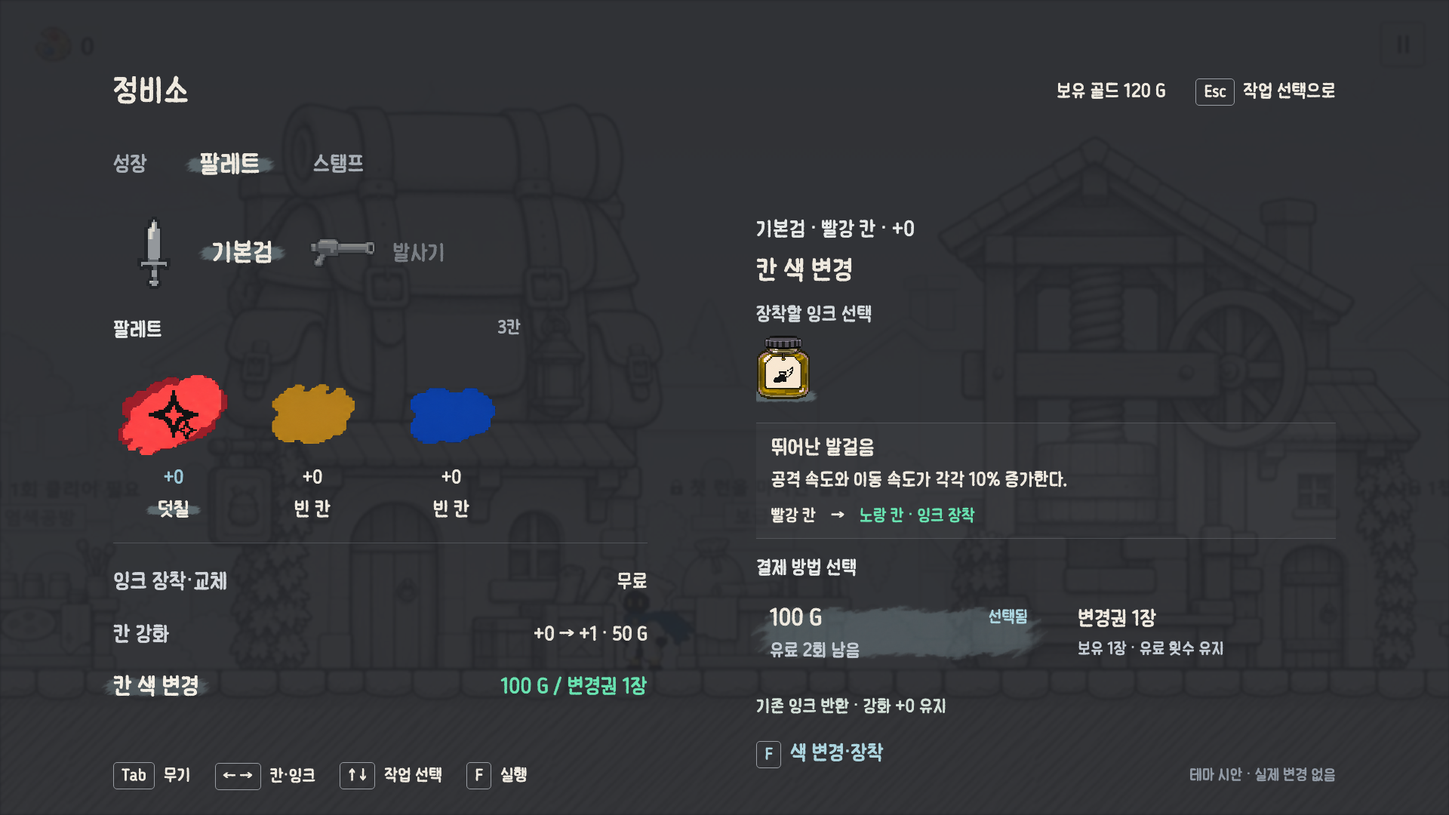
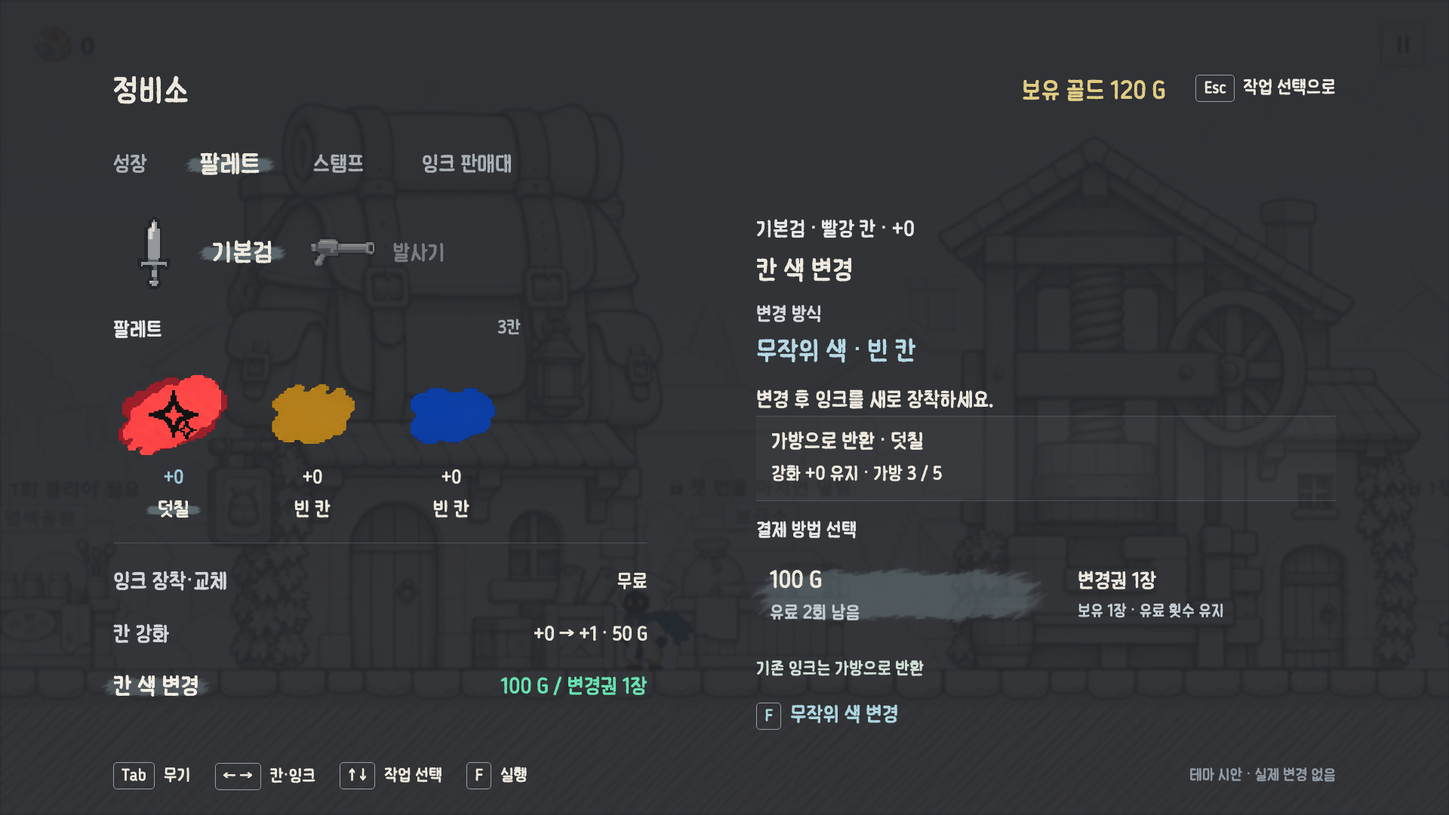
Revise growth and random recolor flow and add equipment slot navigation

diff --git a/ui/work/theme/ink-pixel-v1/maintenance-palette-v1/index.html b/ui/work/theme/ink-pixel-v1/maintenance-palette-v1/index.html
@@ -133,7 +133,9 @@ body[data-mode="color"] .paymentOption{transform:scale(1);transform-origin:cente
 body[data-mode="color"] .paymentOption.isSelected{transform:scale(1.12)}
 body[data-mode="color"] .payment{gap:48px;padding:8px 18px}
 @media(prefers-reduced-motion:reduce){.slot .layers,nav>a,nav>span,.weapons button,.taskName,.taskMeta,.candidateRow button,.recolorInks button,body[data-mode="color"] .paymentOption{transition:none}}
-</style><div class="screen"><div class="world"></div><main><header><h1>정비소</h1><aside><span>보유 골드 120 G</span><span><kbd>Esc</kbd><span id="escLabel">닫기</span></span></aside></header><nav><a href="../maintenance-set-v1/index.html?view=growth">성장</a><span class="active mark">팔레트</span><a href="../maintenance-stamp-v1/index.html">스탬프</a></nav><div class="cols"><section><div class="weapons" id="weapons"></div><div class="paletteHead"><span class="label">팔레트</span><span class="label" id="slotCount">3칸</span></div><div class="slots" id="slots"></div><div class="services"><button onclick="showService(0)"><span class="serviceTitle">칸 강화</span><span class="serviceValue"><span>+0</span><span class="serviceArrow">→</span><span class="serviceGain">+1</span></span><span class="serviceCost"><span class="costLabel">비용</span><span>50 G</span></span></button><button onclick="showService(1)"><span class="serviceTitle">칸 색 변경</span><span class="serviceValue changeValue">칸 색 변경</span><span class="serviceCost"><span class="costLabel">비용</span><span>변경권 1장</span></span></button></div></section><section id="detail"></section></div></main><footer class="foot"><span><kbd>Tab</kbd>무기</span><span><kbd>← →</kbd>칸·잉크</span><span><kbd>↑ ↓</kbd>작업 선택</span><span><kbd>F</kbd><span id="fLabel">잉크 고르기</span></span><span class="note">테마 시안 · 실제 변경 없음</span></footer></div><script>
+header aside>span:first-child{color:#e0cc83;font-size:33px}header aside>span:last-child{color:#eee9df;font-size:25px}
+body[data-mode="color"] .taskDecision button:disabled{color:#e3b59f}
+</style><div class="screen"><div class="world"></div><main><header><h1>정비소</h1><aside><span>보유 골드 120 G</span><span><kbd>Esc</kbd><span id="escLabel">닫기</span></span></aside></header><nav><a href="../maintenance-growth-v2/index.html">성장</a><span class="active mark">팔레트</span><a href="../maintenance-stamp-v1/index.html">스탬프</a><a href="../ink-shop-v1/index.html">잉크 판매대</a></nav><div class="cols"><section><div class="weapons" id="weapons"></div><div class="paletteHead"><span class="label">팔레트</span><span class="label" id="slotCount">3칸</span></div><div class="slots" id="slots"></div><div class="services"><button onclick="showService(0)"><span class="serviceTitle">칸 강화</span><span class="serviceValue"><span>+0</span><span class="serviceArrow">→</span><span class="serviceGain">+1</span></span><span class="serviceCost"><span class="costLabel">비용</span><span>50 G</span></span></button><button onclick="showService(1)"><span class="serviceTitle">칸 색 변경</span><span class="serviceValue changeValue">칸 색 변경</span><span class="serviceCost"><span class="costLabel">비용</span><span>변경권 1장</span></span></button></div></section><section id="detail"></section></div></main><footer class="foot"><span><kbd>Tab</kbd>무기</span><span><kbd>← →</kbd>칸·잉크</span><span><kbd>↑ ↓</kbd>작업 선택</span><span><kbd>F</kbd><span id="fLabel">잉크 고르기</span></span><span class="note">테마 시안 · 실제 변경 없음</span></footer></div><script>
 const A='../screen-set-v6/assets/';const inks=[{id:'ink3_red_01',name:'덧칠',color:'red',desc:'원공격 피해의 20%인 추가타 1회를 가한다.'},{id:'ink3_red_02',name:'집중 공격',color:'red',desc:'같은 몬스터를 연달아 때릴 때마다 그 몬스터에게 주는 피해가 4%씩 오른다. 최대 5중첩(20%)이다.'},{id:'ink3_red_04',name:'터지는 잉크',color:'red',desc:'표식을 터트린 몬스터에게 기준 피해 60%인 추가타 1회를 가한다.'},{id:'ink3_yellow_02',name:'뛰어난 발걸음',color:'yellow',desc:'공격 속도와 이동 속도가 각각 10% 증가한다.'},{id:'ink3_blue_01',name:'범위 증폭',color:'blue',desc:'공격 범위(반경)가 20% 증가한다.'}];const colorNames={red:'빨강',yellow:'노랑',blue:'파랑',green:'초록',purple:'보라'};const expanded=new URLSearchParams(location.search).get('slots')==='5';const colors=expanded?['red','yellow','blue','green','purple']:['red','yellow','blue'];const sets=expanded?[[0,null,null,null,null],[null,null,4,null,null]]:[[0,null,null],[null,null,4]];let mode=new URLSearchParams(location.search).get('state')==='ink'?'ink':'slot',slot=mode==='ink'?0:new URLSearchParams(location.search).get('state')==='slot'?1:-1,weapon=0,candidate=1;
 const slotStats=sets.map(row=>row.map(()=>({level:0})));
 const slotColors=sets.map(()=>[...colors]);let task=null,gold=120,purchases=0,tickets=1,paidLeft=2,payment='gold',colorInk=-1,message='';
@@ -161,23 +163,21 @@ function render(){
  body+=`<div class="upgradeCompare"><div><p>현재</p><strong>${value(level)}</strong></div>${max?'':`<span>→</span><div><p>강화 후</p><strong class="next">${value(level+1)}</strong></div>`}</div><p class="upgradeNote">${current?.id==='ink3_red_01'?'덧칠 · 추가타 피해':current?'해당 잉크의 효과 수치는 별도 검토':'빈 칸 강화'}</p><p class="upgradeNote">잉크 교체·색 변경 후에도 강화 유지</p>`;
  note=max?'최대 강화입니다.':gold<costs()?`골드 ${costs()-gold} G 부족`:`비용 ${costs()} G`;action='강화하기';
  }else if(task==='color'){
- const list=current?colorCandidates():[];if(!list.some(x=>x.index===colorInk))colorInk=list[0]?.index??-1;const selected=inks[colorInk];
- if(!current){body+='<p class="recolorEmpty">빈 칸은 색을 변경할 수 없습니다.</p>';}
- else if(!selected){body+='<p class="recolorEmpty">보유한 다른 색 잉크가 없습니다.</p>';}
- else{
- body+=`<p class="sectionLabel">장착할 잉크 선택</p><div class="recolorInks">${list.map(x=>`<button class="${colorInk===x.index?'mark':''}" onclick="selectColorInk(${x.index})" aria-label="${x.name}"><img src="${A}${x.id}-jar.png" alt="${x.name}"></button>`).join('')}</div><div class="recolorDescription"><h3>${selected.name}</h3><p>${selected.desc}</p><div class="colorChangeSummary"><span>${colorNames[c]} 칸</span><span>→</span><strong>${colorNames[selected.color]} 칸 · 잉크 장착</strong></div></div><p class="paymentLabel">결제 방법 선택</p><div class="payment"><button class="paymentOption ${payment==='gold'?'isSelected':''}" aria-pressed="${payment==='gold'}" onclick="payment='gold';message='';render()"><span class="paymentTitle">100 G <span class="selectedWord">${payment==='gold'?'선택됨':''}</span></span><small>유료 ${paidLeft}회 남음</small></button><button class="paymentOption ${payment==='ticket'?'isSelected':''}" aria-pressed="${payment==='ticket'}" onclick="payment='ticket';message='';render()"><span class="paymentTitle">변경권 1장 <span class="selectedWord">${payment==='ticket'?'선택됨':''}</span></span><small>보유 ${tickets}장 · 유료 횟수 유지</small></button></div>`;
- }
- disabled=!current||!selected||(payment==='gold'?(gold<100||paidLeft<1):tickets<1);
- note=!current?'장착된 잉크가 있는 칸을 선택하세요.':!selected?'다른 색 잉크를 획득한 뒤 이용할 수 있습니다.':disabled?(payment==='gold'?(paidLeft<1?'유료 횟수 소진':'골드 부족'):'변경권 없음'):'기존 잉크 반환 · 강화 +'+level+' 유지';action='색 변경·장착';
+ const full=new URLSearchParams(location.search).get('case')==='full';
+ body+=`<p class="sectionLabel">변경 방식</p><h2 style="color:#b5d8e4">무작위 색 · 빈 칸</h2><p class="effect">변경 후 잉크를 새로 장착하세요.</p><div class="recolorDescription"><h3>${current?'가방으로 반환 · '+current.name:'반환할 잉크 없음'}</h3><p>강화 +${level} 유지${current?' · 가방 '+(full?'5 / 5':'3 / 5'):''}</p></div><p class="paymentLabel">결제 방법 선택</p><div class="payment"><button class="paymentOption ${payment==='gold'?'isSelected':''}" onclick="payment='gold';message='';render()"><span class="paymentTitle">100 G</span><small>유료 ${paidLeft}회 남음</small></button><button class="paymentOption ${payment==='ticket'?'isSelected':''}" onclick="payment='ticket';message='';render()"><span class="paymentTitle">변경권 1장</span><small>보유 ${tickets}장 · 유료 횟수 유지</small></button></div>`;
+ disabled=Boolean(current&&full)||(payment==='gold'?(gold<100||paidLeft<1):tickets<1);
+ note=disabled?'':current?'기존 잉크는 가방으로 반환':'빈 칸 색 변경 가능 여부 검토 중';
+ if(!current)disabled=true;
+ action=current&&full?'가방이 가득 찼습니다':disabled?'변경 불가':'무작위 색 변경';
  }else{
  const list=available(),d=inks[candidate];body+=`<p class="sectionLabel">현재 · ${current?current.name:'빈 칸'}</p><p class="effect">${current?current.desc:''}</p><div class="transition"><img src="${A}transition-down.png" alt=""></div><p class="label">보유 잉크</p><div class="candidateRow">${list.map(x=>`<button class="${candidate===x.index?'mark':''}" onclick="candidate=${x.index};render()"><img src="${A}${x.id}-jar.png" alt="${x.name}"></button>`).join('')}</div>${d?`<h2 class="candidateTitle">${d.name}</h2><p class="effect">${d.desc}</p>`:'<p class="effect">보유한 잉크 없음</p>'}`;disabled=!d;note=current?'현재 잉크는 가방으로 반환':'빈 칸에 장착';action=current?'교체 · 무료':'장착 · 무료';
  }
  detail.innerHTML=body+`<div class="taskDecision"><p class="decisionNote" role="status">${message||note}</p><button onclick="executeTask()" ${disabled?'disabled':''}><kbd>F</kbd>${action}</button></div>`;
 }
 function executeTask(){if(slot<0||!task)return;const st=slotStats[weapon][slot];if(task==='upgrade'){if(st.level>=5||gold<costs())return;gold-=costs();purchases++;st.level++;message='강화 완료 · +'+st.level;}
-else if(task==='color'){const selected=colorCandidates().find(x=>x.index===colorInk);const valid=payment==='gold'?gold>=100&&paidLeft>0:tickets>0;if(!valid||!selected||sets[weapon][slot]==null)return;message='미리보기 · '+colorNames[selected.color]+' 칸에 '+selected.name+' 장착 / 실제 변경 없음';}
+else if(task==='color'){const full=new URLSearchParams(location.search).get('case')==='full';const valid=payment==='gold'?gold>=100&&paidLeft>0:tickets>0;if(full||!valid||sets[weapon][slot]==null)return;message='미리보기 · 잉크 반환 후 무작위 색의 빈 칸으로 변경 / 실제 변경 없음';}
 else{if(candidate<0)return;message='장착 결과 미리보기 · 실제 아이템 변경 없음';}render();}
-document.addEventListener('keydown',e=>{if(e.repeat)return;const k=e.key;if(!['Tab','Escape','ArrowLeft','ArrowRight','ArrowUp','ArrowDown','f','F'].includes(k))return;e.preventDefault();if(k==='Tab')setWeapon(1-weapon);else if(k==='Escape'){if(task){task=null;render()}else if(slot>=0){slot=-1;render()}else{document.querySelector('main').hidden=true;}}else if(k.toLowerCase()==='f'){if(slot<0)setSlot(0);else if(!task)pickTask('ink');else executeTask();}else if(k==='ArrowDown'||k==='ArrowUp'){if(slot>=0){const ts=['ink','upgrade','color'];pickTask(ts[(ts.indexOf(task)+(k==='ArrowDown'?1:2)+3)%3]);}}else if(!task)setSlot(slot<0?0:(slot+(k==='ArrowLeft'?colors.length-1:1))%colors.length);else if(task==='color'){const opts=colorCandidates();if(opts.length){colorInk=opts[(opts.findIndex(x=>x.index===colorInk)+(k==='ArrowLeft'?opts.length-1:1))%opts.length].index;message='';render();}}else if(task==='ink'){const a=available();if(a.length){candidate=a[(a.findIndex(x=>x.index===candidate)+(k==='ArrowLeft'?a.length-1:1))%a.length].index;render();}}});
+document.addEventListener('keydown',e=>{if(e.repeat)return;const k=e.key;if(!['Tab','Escape','ArrowLeft','ArrowRight','ArrowUp','ArrowDown','f','F'].includes(k))return;e.preventDefault();if(k==='Tab')setWeapon(1-weapon);else if(k==='Escape'){if(task){task=null;render()}else if(slot>=0){slot=-1;render()}else{document.querySelector('main').hidden=true;}}else if(k.toLowerCase()==='f'){if(slot<0)setSlot(0);else if(!task)pickTask('ink');else executeTask();}else if(k==='ArrowDown'||k==='ArrowUp'){if(slot>=0){const ts=['ink','upgrade','color'];pickTask(ts[(ts.indexOf(task)+(k==='ArrowDown'?1:2)+3)%3]);}}else if(!task)setSlot(slot<0?0:(slot+(k==='ArrowLeft'?colors.length-1:1))%colors.length);else if(task==='color'){payment=payment==='gold'?'ticket':'gold';render();}else if(task==='ink'){const a=available();if(a.length){candidate=a[(a.findIndex(x=>x.index===candidate)+(k==='ArrowLeft'?a.length-1:1))%a.length].index;render();}}});
 function fit(){document.querySelector('.screen').style.transform=`scale(${Math.min(innerWidth/1920,innerHeight/1080)})`}onresize=fit;
 const q=new URLSearchParams(location.search),view=q.get('task');if(q.get('payment')==='ticket')payment='ticket';if(view){slot=q.get('case')==='empty'?1:0;task=view;candidate=available()[0]?.index??-1;colorInk=colorCandidates()[0]?.index??-1;}else if(q.get('state')==='ink'){task='ink';candidate=1;}fit();render();
 </script></html>

diff --git a/ui/work/theme/ink-pixel-v1/maintenance-stamp-v1/index.html b/ui/work/theme/ink-pixel-v1/maintenance-stamp-v1/index.html
@@ -1,7 +1,8 @@
 <!doctype html><html lang="ko"><meta charset="utf-8"><title>Deviant · 정비소 스탬프</title><style>
 @font-face{font-family:Kkuk;src:url(../assembly-v1/fonts/MemomentKkukkukk.ttf)}*{box-sizing:border-box}body{margin:0;background:#24262b;color:#eee9df;font-family:Kkuk,sans-serif}button,a{font:inherit;color:inherit;background:none;border:0;padding:0;text-decoration:none;cursor:pointer}button{text-align:left}button:focus-visible,a:focus-visible{outline:2px solid #aacbd8;outline-offset:8px}button:disabled{cursor:default;color:#868e97}.screen{width:1920px;height:1080px;transform-origin:0 0;position:relative;overflow:hidden}.world{position:absolute;inset:0;background:linear-gradient(#24262bf0,#24262bea),url(../screen-set-v6/assets/village.jpg) center/cover;filter:blur(1px)}main{position:relative;margin:0 150px;padding-top:85px}header{display:flex;align-items:center;height:72px}h1{font-size:43px;font-weight:normal;margin:0}header aside{margin-left:auto;font-size:25px}kbd{font:inherit;font-size:22px;border:1px solid #999da3;border-radius:5px;padding:4px 10px;margin-right:12px}nav{display:flex;gap:76px;align-items:center;margin-top:44px;font-size:29px;color:#a8afb6}.selected{color:#eee9df}.wash{position:relative;isolation:isolate;display:inline-block}.wash:before{content:'';position:absolute;inset:-12px -18px;background:url(../maintenance-palette-v1/assets/selection-wash-v1.png) center/contain no-repeat;opacity:.44;z-index:-1;pointer-events:none}nav .selected{transform:scale(1.2)}.cols{display:grid;grid-template-columns:708px 1fr;gap:144px;margin-top:64px}.weapons{display:flex;gap:72px;align-items:center;height:96px}.weapons button{display:flex;align-items:center;gap:18px;font-size:30px;transform-origin:left center;color:#a8afb6}.weapons button.selected{transform:scale(1.15);color:#eee9df}img{image-rendering:pixelated;object-fit:contain}.weapons img{width:96px;height:96px}.types{margin-top:42px;display:flex;gap:68px;font-size:28px;color:#a8afb6}.types .selected{transform:scale(1.1)}.label{color:#a8afb6;font-size:24px;margin-bottom:20px}.inventory{margin-top:42px}.candidate{display:flex;justify-content:space-between;align-items:center;height:92px;width:100%;font-size:30px;border-bottom:1px solid #a8afb624}.candidate span{transform-origin:left center}.candidate.selected span{transform:scale(1.1)}.candidate small{font-size:23px;color:#a8afb6}.candidate.selected small{color:#aacbd8}.hint{font-size:23px;color:#a8afb6;line-height:1.6;margin-top:28px}.detail .label{margin-bottom:14px}.detail h2{font-size:35px;font-weight:normal;margin:0 0 14px}.detail p{font-size:26px;line-height:1.55;margin:0}.current{color:#bdc2c7}.change{display:flex;align-items:center;gap:20px;margin:27px 0}.change:before,.change:after{content:'';height:1px;background:#a8afb650;flex:1}.change img{width:24px;height:22px}.next h2{color:#b5d8e4}.skill{font-size:24px!important;color:#c3d2d6;margin-top:16px!important}.cost{display:flex;justify-content:space-between;align-items:center;border-top:1px solid #a8afb640;margin-top:30px;padding-top:22px;font-size:28px}.warning{color:#e4b59f!important;font-size:23px!important;margin-top:15px!important}.action{margin-top:26px;font-size:30px;color:#b5d8e4}.notice{margin-top:18px;font-size:23px;color:#b5d8e4}.footer{position:absolute;bottom:48px;left:150px;right:150px;font-size:22px;color:#919aa5;display:flex;justify-content:space-between}
 .candidate>span{display:flex;align-items:center;gap:24px}.stampIcon{width:68px;height:68px;flex-shrink:0}.candidate .wash:before{left:78px}.candidate:disabled{opacity:.36;cursor:not-allowed}.candidate:disabled small{color:#bdc2c7}.candidate:disabled .stampIcon{filter:grayscale(1)}
-</style><div class="screen"><div class="world"></div><main><header><h1>정비소</h1><aside id="money"></aside></header><nav><a href="../maintenance-set-v1/index.html?view=growth">성장</a><a href="../maintenance-palette-v1/index.html">팔레트</a><span class="selected wash">스탬프</span></nav><div class="cols"><section><div class="weapons" id="weapons"></div><div class="types" id="types"></div><div class="inventory"><div class="label">보유 스탬프</div><div id="list"></div></div><div class="hint">무기 스탬프는 같은 도면에만 적용됩니다.<br>스킬 스탬프는 모든 무기에 적용됩니다.</div></section><section class="detail" id="detail"></section></div></main><footer class="footer"><span>무기 → 스탬프 종류 → 보유 스탬프 선택</span><span>테마 시안 · 실제 아이템 변경 없음</span></footer></div><script>
+header aside,header aside span:first-child{color:#e0cc83}header aside{font-size:33px}
+</style><div class="screen"><div class="world"></div><main><header><h1>정비소</h1><aside id="money"></aside></header><nav><a href="../maintenance-growth-v2/index.html">성장</a><a href="../maintenance-palette-v1/index.html">팔레트</a><span class="selected wash">스탬프</span><a href="../ink-shop-v1/index.html">잉크 판매대</a></nav><div class="cols"><section><div class="weapons" id="weapons"></div><div class="types" id="types"></div><div class="inventory"><div class="label">보유 스탬프</div><div id="list"></div></div><div class="hint">무기 스탬프는 같은 도면에만 적용됩니다.<br>스킬 스탬프는 모든 무기에 적용됩니다.</div></section><section class="detail" id="detail"></section></div></main><footer class="footer"><span>무기 → 스탬프 종류 → 보유 스탬프 선택</span><span>테마 시안 · 실제 아이템 변경 없음</span></footer></div><script>
 const q=new URLSearchParams(location.search);let kind=q.get('kind')||'weapon',weapon=0,pick=Number(q.get('pick')||0),gold=q.get('case')==='poor'?10:120;const empty=q.get('case')==='empty';
 const pools={weapon:[{icon:'../screen-set-v6/assets/weapon-whip.png',name:'채찍',tag:'검 도면',compatible:true,desc:'긴 사거리의 채찍으로 전방의 적을 공격합니다.',skill:'가시 그물 · 전방의 여러 적을 잠시 속박합니다.',note:'범위 스킬 스탬프 유지'},{icon:'../screen-set-v6/assets/weapon-rapier.png',name:'레이피어',tag:'현재와 같은 효과',compatible:true,same:true},{icon:'../screen-set-v6/assets/weapon-shield.png',name:'방패',tag:'둔기 도면 · 호환 불가',compatible:false}],skill:[{icon:'assets/skill-movement.png',name:'이동',tag:'모든 도면',compatible:true,desc:'흘려찌르기',skill:'가까운 적 앞으로 순간이동한 뒤 찌릅니다. 이동 자체에 무적은 없습니다.',note:'기본 재사용 대기시간 · 6초'},{icon:'assets/skill-range.png',name:'범위',tag:'현재와 같은 효과',compatible:true,same:true},{icon:'assets/skill-followup.png',name:'후속타',tag:'모든 도면',compatible:true,desc:'섬광 연침',skill:'적에게 접근해 빠른 찌르기를 연속으로 가합니다.',note:'기본 재사용 대기시간 · 9초'}]};
 function chooseKind(k){if(empty&&k==='skill'){location.href='?kind=skill';return}kind=k;pick=0;render()}function render(){money.textContent=`보유 골드 ${gold} G`;weapons.innerHTML=['레이피어','발사기'].map((n,i)=>`<button class="${weapon===i?'selected':''}" onclick="weapon=${i};render()"><img src="../screen-set-v6/assets/weapon-${i?'launcher':empty?'base_sword':'rapier'}.png"><span class="${weapon===i?'wash':''}">${i===0&&empty?'기본검':n}</span></button>`).join('');types.innerHTML=['weapon','skill'].map((k,i)=>`<button class="${kind===k?'selected wash':''}" onclick="chooseKind('${k}')">${i?'스킬':'무기'} 스탬프</button>`).join('');

diff --git a/ui/work/theme/ink-pixel-v1/ink-shop-v1/index.html b/ui/work/theme/ink-pixel-v1/ink-shop-v1/index.html
@@ -1,7 +1,7 @@
 <!doctype html><html lang="ko"><meta charset="utf-8"><title>Deviant · 잉크 판매대</title><style>
 @font-face{font-family:Kkuk;src:url(../assembly-v1/fonts/MemomentKkukkukk.ttf)}*{box-sizing:border-box}body{margin:0;background:#24262b;color:#eee9df;font-family:Kkuk,sans-serif}button,a{font:inherit;color:inherit;background:none;border:0;padding:0;text-decoration:none;cursor:pointer}button{text-align:left}button:focus-visible,a:focus-visible{outline:2px solid #aacbd8;outline-offset:8px}button:disabled{cursor:default;color:#8d949c}.screen{width:1920px;height:1080px;transform-origin:0 0;position:relative;overflow:hidden}.world{position:absolute;inset:0;background:linear-gradient(#24262bf0,#24262bea),url(../screen-set-v6/assets/village.jpg) center/cover;filter:blur(1px)}main{position:relative;margin:0 150px;padding-top:85px}header{display:flex;align-items:center;height:72px}h1{font-size:43px;font-weight:normal;margin:0}header aside{margin-left:auto;font-size:25px;display:flex;gap:36px}kbd{font:inherit;font-size:22px;border:1px solid #999da3;border-radius:5px;padding:4px 10px;margin-right:12px}nav{display:flex;gap:76px;margin-top:44px;font-size:29px;color:#a8afb6}.wash{position:relative;isolation:isolate;display:inline-block}.wash:before{content:'';position:absolute;inset:-12px -18px;background:url(../maintenance-palette-v1/assets/selection-wash-v1.png) center/contain no-repeat;opacity:.44;z-index:-1;pointer-events:none}nav .wash{color:#eee9df;transform:scale(1.2)}.cols{display:grid;grid-template-columns:708px 1fr;gap:144px;margin-top:70px}.label{font-size:24px;color:#a8afb6;margin-bottom:22px}.stock{display:flex;flex-direction:column;gap:20px}.product{width:100%;display:flex;align-items:center;gap:28px;height:136px;border-bottom:1px solid #a8afb62b}.product img{width:100px;height:116px;object-fit:contain;image-rendering:pixelated;transform:scale(.9)}.product.active img{transform:scale(1.05)}.product .name{font-size:31px;display:block;transform-origin:left center}.product.active .name{transform:scale(1.1)}.product small{display:block;font-size:23px;color:#a8afb6;margin-top:15px}.price{margin-left:auto;font-size:28px}.product.active .price{color:#b5d8e4;transform:scale(1.1);transform-origin:right}.product.sold{opacity:.38}.hint{font-size:23px;color:#a8afb6;line-height:1.6;margin-top:28px}.hero{display:flex;gap:30px;align-items:center;min-height:170px}.hero img{width:132px;height:150px;object-fit:contain;image-rendering:pixelated}.hero h2{font-size:38px;color:var(--ink);font-weight:normal;margin:0 0 18px}.hero p{font-size:24px;color:#b7bec6;margin:0}.description{font-size:28px;line-height:1.7;min-height:140px;margin:28px 0 30px}.checkout{border-top:1px solid #a8afb650;padding-top:26px}.line{display:flex;justify-content:space-between;align-items:center;font-size:28px;margin-bottom:23px}.line span:first-child{color:#b5bdc5;font-size:25px}.preview{font-size:23px;color:#a8afb6}.action{font-size:31px;color:#b5d8e4;margin-top:28px}.message{margin-top:24px;padding-top:22px;border-top:1px solid #a8afb640;font-size:26px;color:#b8d8c4}.error{color:#e3b59f}.footer{position:absolute;bottom:52px;left:150px;right:150px;font-size:22px;color:#919aa5;display:flex;justify-content:space-between}
 #money{font-size:33px;color:#e0cc83}.action:disabled{color:#e3b59f}
-</style><div class="screen"><div class="world"></div><main><header><h1>정비소</h1><aside><span id="money"></span><span id="capacity"></span></aside></header><nav><a href="../maintenance-set-v1/index.html?view=growth">성장</a><a href="../maintenance-palette-v1/index.html">팔레트</a><a href="../maintenance-stamp-v1/index.html">스탬프</a><span class="wash">잉크 판매대</span></nav><div class="cols"><section><div class="label">판매 중인 잉크</div><div id="stock" class="stock"></div><div class="hint">구매한 잉크는 가방에 보관됩니다.</div></section><section id="detail"></section></div></main><footer class="footer"><span><kbd>↑ ↓</kbd>잉크 선택　 <kbd>F</kbd>구매</span><span>테마 시안 · 실제 게임 데이터 변경 없음</span></footer></div><script>
+</style><div class="screen"><div class="world"></div><main><header><h1>정비소</h1><aside><span id="money"></span><span id="capacity"></span></aside></header><nav><a href="../maintenance-growth-v2/index.html">성장</a><a href="../maintenance-palette-v1/index.html">팔레트</a><a href="../maintenance-stamp-v1/index.html">스탬프</a><span class="wash">잉크 판매대</span></nav><div class="cols"><section><div class="label">판매 중인 잉크</div><div id="stock" class="stock"></div><div class="hint">구매한 잉크는 가방에 보관됩니다.</div></section><section id="detail"></section></div></main><footer class="footer"><span><kbd>↑ ↓</kbd>잉크 선택　 <kbd>F</kbd>구매</span><span>테마 시안 · 실제 게임 데이터 변경 없음</span></footer></div><script>
 const q=new URLSearchParams(location.search),mode=q.get('case');let gold=mode==='poor'?300:850,used=mode==='full'?5:3,selected=0;const cap=5;let receipt='';const items=[{id:'ink3_red_02',name:'집중 공격',grade:3,price:420,color:'#e5a6a7',desc:'같은 몬스터를 연달아 때릴 때마다 그 몬스터에게 주는 피해가 4%씩 오릅니다. 최대 5중첩(20%)입니다.'},{id:'ink3_red_04',name:'터지는 잉크',grade:4,price:600,color:'#e5a6a7',desc:'표식을 터트린 몬스터에게 기준 피해 60%인 추가타 1회를 가합니다.'},{id:'ink3_yellow_01',name:'전기 발자국',grade:3,price:420,color:'#e0cc83',desc:'이동할 때마다 발밑에 작은 전기장을 남깁니다. 전기장 안의 적에게 지속 피해를 줍니다.'}];
 function render(){money.textContent=`보유 골드 ${gold} G`;capacity.textContent=`가방 ${used} / ${cap}`;stock.innerHTML=items.map((x,i)=>`<button class="product ${selected===i?'active':''} ${x.sold?'sold':''}" ${x.sold?'disabled':''} onclick="selected=${i};receipt='';render()"><img src="../screen-set-v6/assets/${x.id}-jar.png" alt=""><span><span class="name ${selected===i&&!x.sold?'wash':''}">${x.name}</span><small>${x.grade}등급</small></span><span class="price">${x.sold?'판매 완료':x.price+' G'}</span></button>`).join('');const x=items[selected],blocked=x.sold||used>=cap||gold<x.price;document.documentElement.style.setProperty('--ink',x.color);detail.innerHTML=`<div class="label">${x.sold?'구매한 잉크':'선택한 잉크'}</div><div class="hero"><img src="../screen-set-v6/assets/${x.id}-jar.png" alt="${x.name}"><div><h2>${x.name}</h2><p>색상 잉크 · ${x.grade}등급</p></div></div><p class="description">${x.desc}</p><div class="checkout"><div class="line"><span>${x.sold?'지불한 금액':'구매 가격'}</span><strong>${x.price} G</strong></div><div class="preview">${x.sold?`남은 골드 ${gold} G · 가방 ${used} / ${cap}`:used>=cap||gold<x.price?'':`구매 후 ${gold-x.price} G · 가방 ${used+1} / ${cap}`}</div>${!x.sold?`<button class="action" ${blocked?'disabled':''} onclick="buy()"><kbd>F</kbd>${used>=cap?'가방이 가득 찼습니다':gold<x.price?'골드 부족':'구매'}</button>`:''}</div>${receipt?`<div class="message" role="status">${receipt}</div>`:''}`}
 function buy(){const x=items[selected];if(x.sold||used>=cap||gold<x.price)return;gold-=x.price;used++;x.sold=true;receipt='구매 완료 · 가방에 보관했습니다.';render()}

diff --git a/ui/work/theme/ink-pixel-v1/maintenance-growth-v2/index.html b/ui/work/theme/ink-pixel-v1/maintenance-growth-v2/index.html
@@ -1,0 +1,4 @@
+<!doctype html><html lang="ko"><meta charset="utf-8"><title>정비소 · 성장</title><style>
+@font-face{font-family:Kkuk;src:url(../assembly-v1/fonts/MemomentKkukkukk.ttf)}*{box-sizing:border-box}body{margin:0;background:#24262b;color:#eee9df;font-family:Kkuk,sans-serif}button,a{font:inherit;color:inherit;background:none;border:0;padding:0;text-decoration:none;cursor:pointer}button{text-align:left}button:focus-visible,a:focus-visible{outline:2px solid #aacbd8;outline-offset:8px}button:disabled{cursor:default;color:#8d949c}.screen{width:1920px;height:1080px;transform-origin:0 0;position:relative;overflow:hidden}.world{position:absolute;inset:0;background:linear-gradient(#24262bf0,#24262bea),url(../screen-set-v6/assets/village.jpg) center/cover;filter:blur(1px)}main{position:relative;margin:0 150px;padding-top:85px}header{display:flex;align-items:center;height:72px}h1{font-size:43px;font-weight:normal;margin:0}header aside{margin-left:auto;font-size:25px;display:flex;gap:36px}kbd{font:inherit;font-size:22px;border:1px solid #999da3;border-radius:5px;padding:4px 10px;margin-right:12px}nav{display:flex;gap:76px;margin-top:44px;font-size:29px;color:#a8afb6}.wash{position:relative;isolation:isolate;display:inline-block}.wash:before{content:'';position:absolute;inset:-12px -18px;background:url(../maintenance-palette-v1/assets/selection-wash-v1.png) center/contain no-repeat;opacity:.44;z-index:-1;pointer-events:none}nav .wash{color:#eee9df;transform:scale(1.2)}.cols{display:grid;grid-template-columns:708px 1fr;gap:144px;margin-top:70px}.label{font-size:24px;color:#a8afb6;margin-bottom:22px}.stock{display:flex;flex-direction:column;gap:20px}.product{width:100%;display:flex;align-items:center;gap:28px;height:136px;border-bottom:1px solid #a8afb62b}.product img{width:100px;height:116px;object-fit:contain;image-rendering:pixelated;transform:scale(.9)}.product.active img{transform:scale(1.05)}.product .name{font-size:31px;display:block;transform-origin:left center}.product.active .name{transform:scale(1.1)}.product small{display:block;font-size:23px;color:#a8afb6;margin-top:15px}.price{margin-left:auto;font-size:28px}.product.active .price{color:#b5d8e4;transform:scale(1.1);transform-origin:right}.product.sold{opacity:.38}.hint{font-size:23px;color:#a8afb6;line-height:1.6;margin-top:28px}.hero{display:flex;gap:30px;align-items:center;min-height:170px}.hero img{width:132px;height:150px;object-fit:contain;image-rendering:pixelated}.hero h2{font-size:38px;color:var(--ink);font-weight:normal;margin:0 0 18px}.hero p{font-size:24px;color:#b7bec6;margin:0}.description{font-size:28px;line-height:1.7;min-height:140px;margin:28px 0 30px}.checkout{border-top:1px solid #a8afb650;padding-top:26px}.line{display:flex;justify-content:space-between;align-items:center;font-size:28px;margin-bottom:23px}.line span:first-child{color:#b5bdc5;font-size:25px}.preview{font-size:23px;color:#a8afb6}.action{font-size:31px;color:#b5d8e4;margin-top:28px}.message{margin-top:24px;padding-top:22px;border-top:1px solid #a8afb640;font-size:26px;color:#b8d8c4}.error{color:#e3b59f}.footer{position:absolute;bottom:52px;left:150px;right:150px;font-size:22px;color:#919aa5;display:flex;justify-content:space-between}
+#money{font-size:33px;color:#e0cc83}.action:disabled{color:#e3b59f}
+</style><style>.growthValue{display:flex;gap:38px;align-items:center;margin:38px 0;font-size:42px}.growthValue strong{color:#b5d8e4}.growthValue small{display:block;font-size:24px;color:#a8afb6;margin-bottom:14px}.description{min-height:70px}</style><div class="screen"><div class="world"></div><main><header><h1>정비소</h1><aside><span id="money">보유 골드 120 G</span></aside></header><nav><span class="wash">성장</span><a href="../maintenance-palette-v1/index.html">팔레트</a><a href="../maintenance-stamp-v1/index.html">스탬프</a><a href="../ink-shop-v1/index.html">잉크 판매대</a></nav><div class="cols"><section><div class="label">캐릭터 강화</div><button class="product active"><img src="../screen-set-v6/assets/weapon-base_sword.png" alt=""><span><span class="name wash">공격 강화</span><small>두 무기에 공통 적용</small></span><span class="price">60 G</span></button><p class="hint">팔레트 칸 강화는 팔레트 탭에서</p></section><section><div class="label">선택한 성장</div><h2 style="font-size:38px;font-weight:normal">공격 강화</h2><p class="description">두 무기의 공격 성능을 함께 강화합니다.</p><div class="growthValue"><div><small>현재</small>Lv 1</div><span>→</span><div><small>강화 후</small><strong>Lv 2</strong></div></div><p class="hint">공격력 +5% · 증가량은 시안용 예시</p><div class="checkout"><div class="line"><span>강화 비용</span><strong>60 G</strong></div><div class="preview">강화 후 보유 골드 60 G · 다음 강화 90 G</div><button class="action" onclick="document.getElementById('status').textContent='강화 결과 확인용 시안입니다. 실제 수치는 변경되지 않습니다.'"><kbd>F</kbd>강화</button><div id="status" class="hint" role="status"></div></div></section></div></main><footer class="footer"><span>캐릭터 성장 · 이번 런</span><span>테마 시안 · 증가량 확정 전</span></footer></div><script>function fit(){document.querySelector('.screen').style.transform=`scale(${Math.min(innerWidth/1920,innerHeight/1080)})`}onresize=fit;fit();document.addEventListener('keydown',e=>{if(!e.repeat&&e.key.toLowerCase()==='f')document.querySelector('.action').click()})</script></html>

diff --git a/ui/work/theme/ink-pixel-v1/maintenance-palette-v1/README.md b/ui/work/theme/ink-pixel-v1/maintenance-palette-v1/README.md
@@ -99,3 +99,6 @@ assets/palette-selection-rim-v1.png를 이미지 생성으로 제작. 중앙이 
 
 ### 선택 확대 가시성 조정
 탭 간격 76px, 선택 120%. 무기 간격 72px, 선택 115%. 작업명과 우측 비용은 함께 110%, 결제 방법은 112%로 확대. 팔레트 80→100% 규칙과 중앙 여백 유지. 선택으로 주변 배치를 재배치하지 않는 transform 방식.
+
+## 색 변경 개정 — 사용자 결정
+무작위 색 변경 → 빈 칸. 기존 잉크 가방 반환, 장착 잉크가 있고 가방 가득 차면 결제/실행 차단. 보유 잉크 선택 제거. 강화 유지. 무색 포함 여부/같은 색 재추첨/확률은 미확정이므로 랜덤 결과를 임의 구현하지 않음. 빈 칸 색 변경 가능 여부도 미확정으로 실행 보류. 기존 색 선택+즉시 장착 기록보다 이 결정 우선. ?task=color&case=full 포화.

diff --git a/ui/work/theme/ink-pixel-v1/maintenance-growth-v2/README.md b/ui/work/theme/ink-pixel-v1/maintenance-growth-v2/README.md
@@ -1,0 +1,2 @@
+# 성장 탭 개정
+잉크 뽑기 제거, 칸 강화는 팔레트로 분리. 캐릭터 공통 공격 강화 예시 유지. 비용60G/다음90G는 content-costs.md 시험값, 레벨1→2/공격력+5%는 기존 시안 예시이며 확정값 아님. 다른 스탯은 확정 목록이 없어 추가하지 않음. Unity 미적용.
